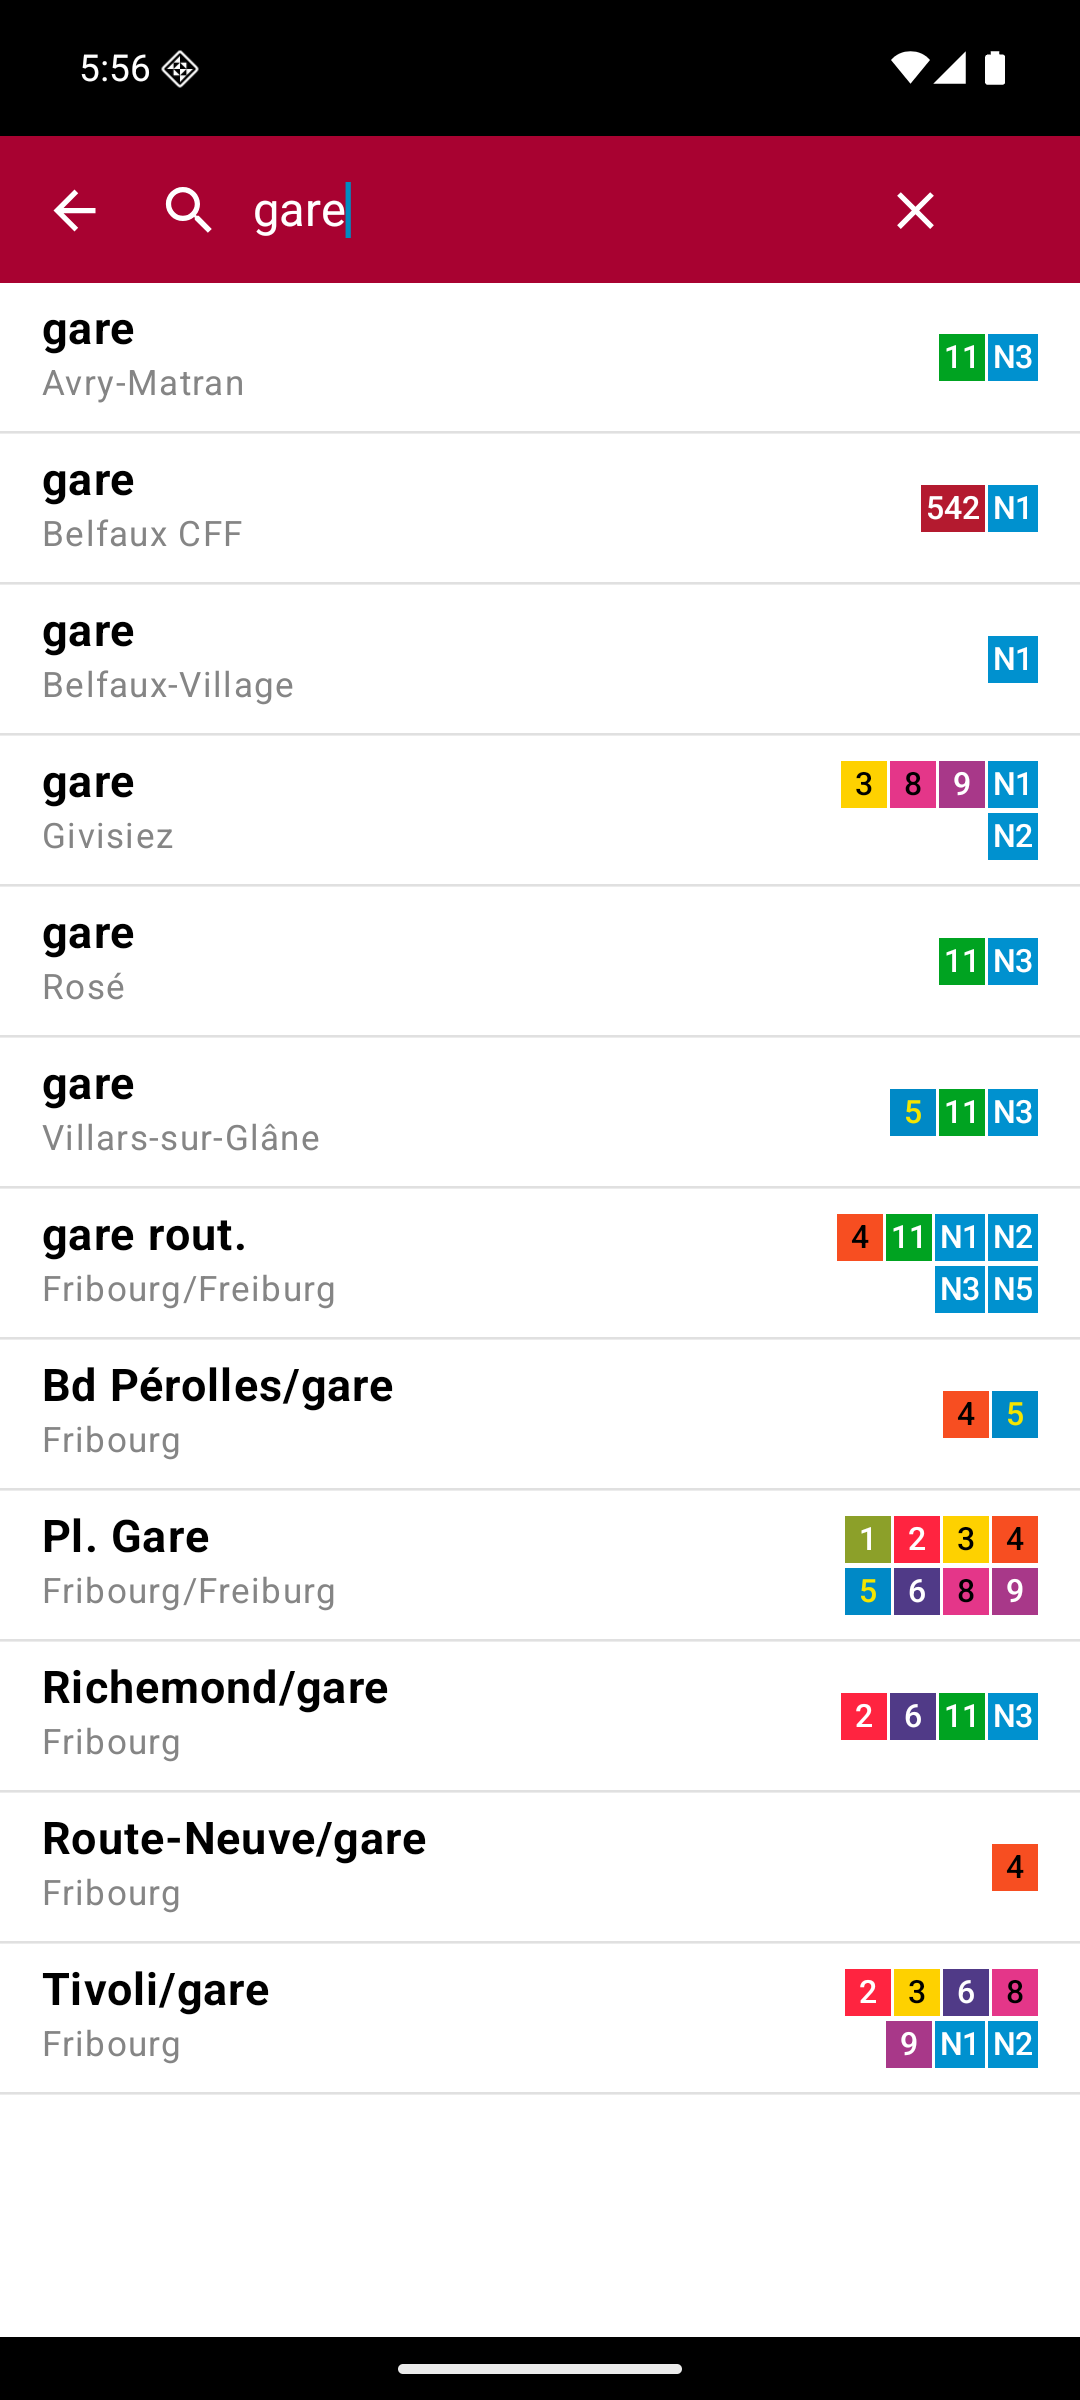
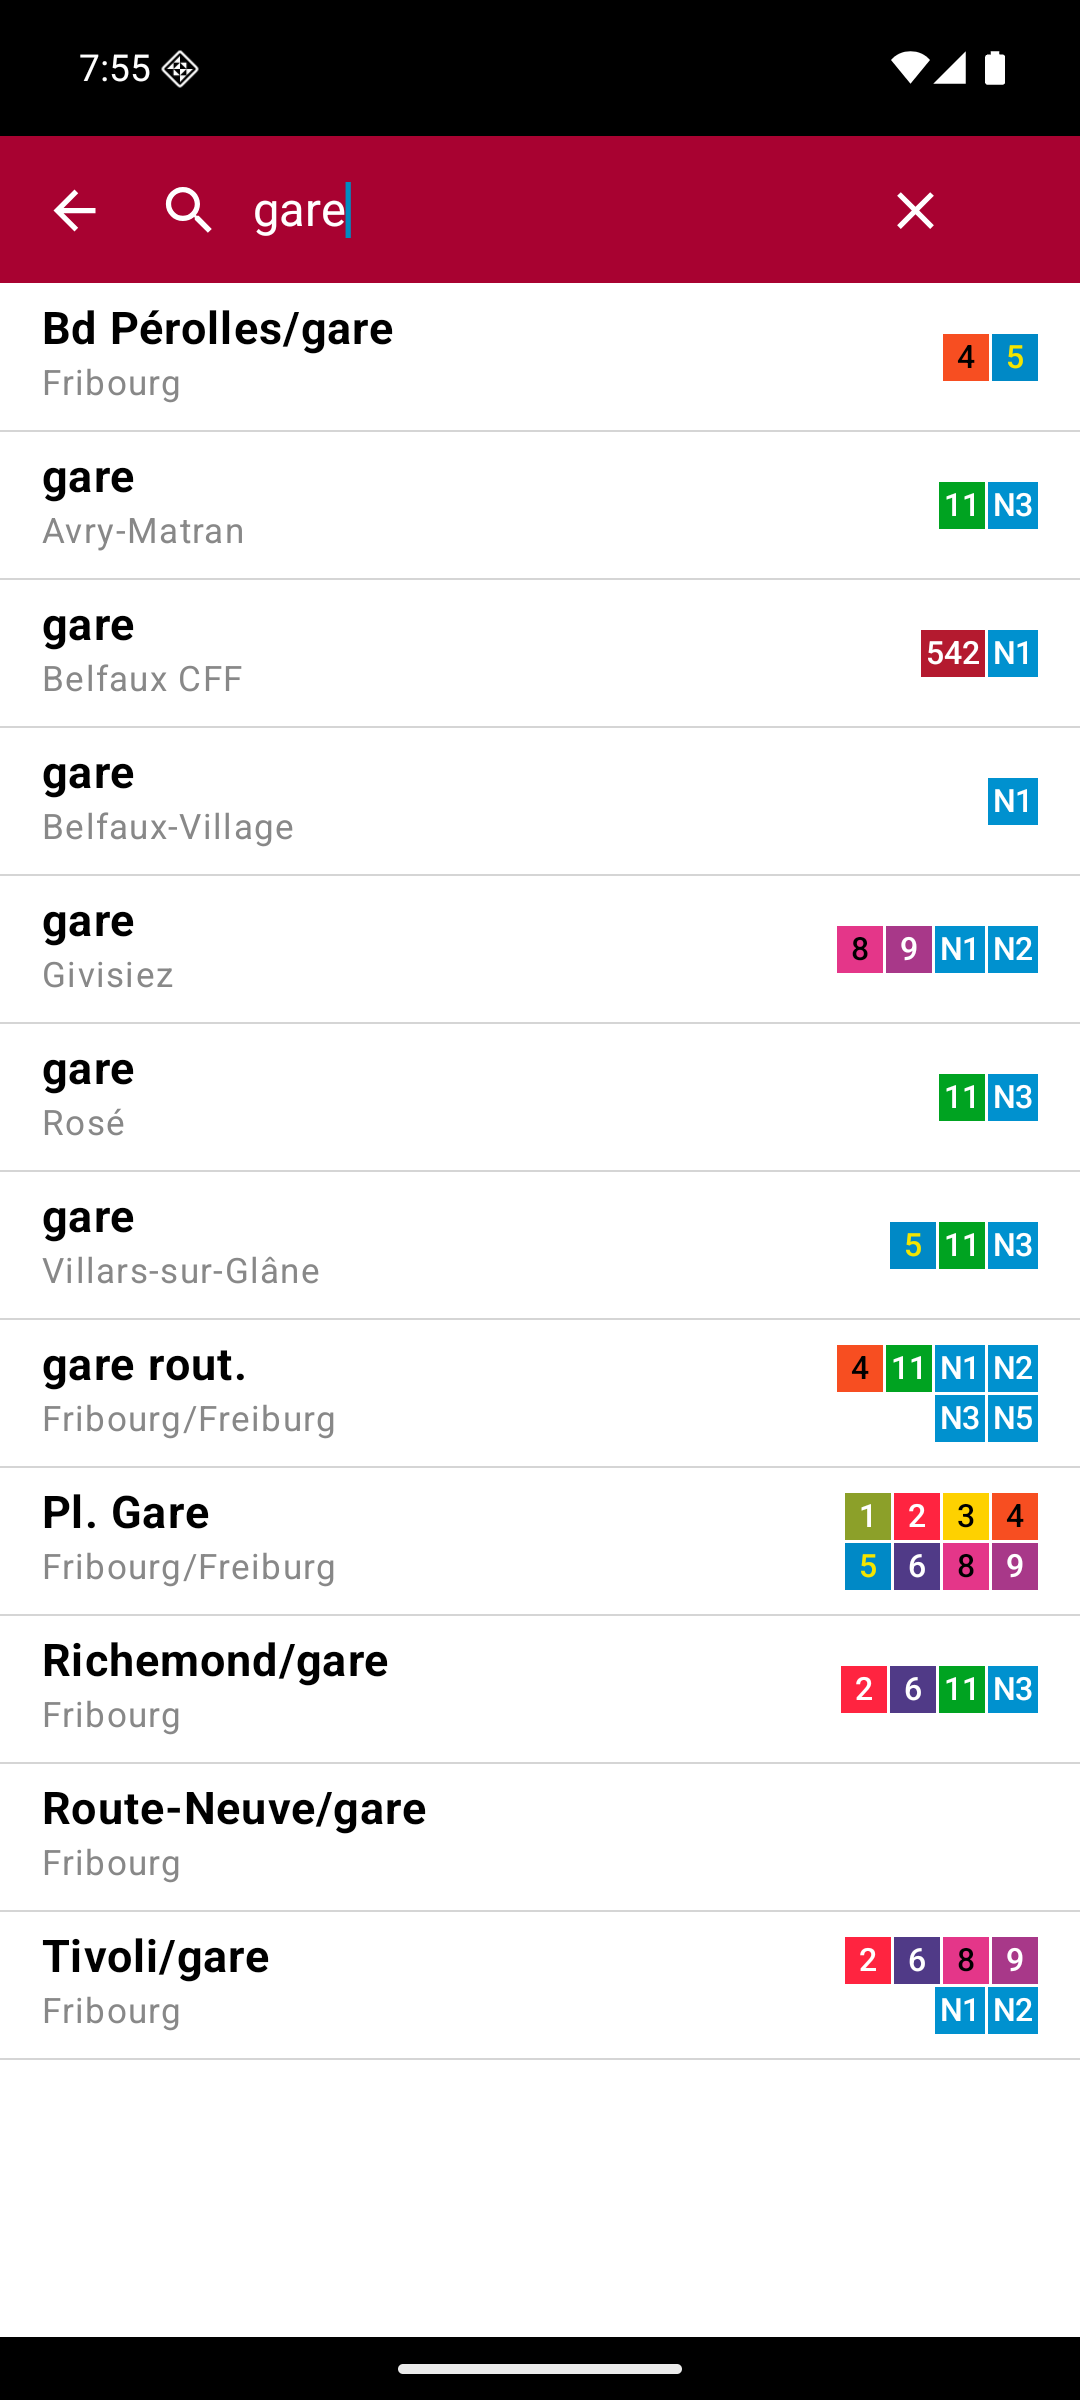
Recette : comparaison sur la v1.0.1

Changed region(s): [[0.0306, 0.125, 0.3972, 0.875], [0.7639, 0.125, 0.9778, 0.875]]

diff --git a/docs/recette/2026-11-16-comparaison.md b/docs/recette/2026-11-16-comparaison.md
@@ -1,7 +1,7 @@
-# Recette : comparaison avec l'ancienne app (TPF Info 2.9.10) — 2026-11-16
+# Recette : comparaison avec l'ancienne app (TPF Info 2.9.10) — 2026-11-16 (refaite sur la v1.0.1)
 
 Méthode : AVD `mission_geo_phone` (1080×2400), position simulée 46.8032 / 7.1597, arrêt Tilleul-Cathédrale (ancienne app) / Tilleul/Cathédrale (FriBus Info).
-Ancienne app capturée avec l'horloge en juin 2021 (seule date acceptée par son horaire embarqué) ; FriBus Info capturée à la date réelle, réseau actif ; les captures `*-fribus.png` viennent du build postérieur au commit 02292fb (rendu aligné sur l'ancienne app), pas de l'APK v1.0.0 d'origine.
+Ancienne app capturée avec l'horloge en juin 2021 (seule date acceptée par son horaire embarqué) ; FriBus Info capturée à la date réelle, réseau actif ; les captures `*-fribus.png` ont été recapturées le 2026-11-16 sur l'APK **release v1.0.1** (`FriBusInfo-v1.0.1.apk`, versionCode 2, téléchargé depuis la release GitHub, installé par-dessus la v1.0.0), position 46.8032 / 7.1597.
 Les écarts sont étiquetés « voulu » avec la référence à la spec (`docs/superpowers/specs/2026-11-16-fribus-info-design.md`) ou à une décision du contrôleur ; sinon « non voulu ».
 
 ## 1. À proximité
@@ -14,7 +14,7 @@ Les écarts sont étiquetés « voulu » avec la référence à la spec (`docs/s
 |---|---|---|---|
 | Barre de titre | Logo « tpf » + « Locate me » | Texte « À proximité » | voulu — spec §4, §6 |
 | Noms d'arrêts | « Neuveville-Motta », « Tilleul-Cathédrale » | « Neuveville/Motta », « Tilleul/Cathédrale » | voulu — spec §8 |
-| Distances, arrêts, lignes | 125 m, 150 m… ; lignes 7, 123, 124, 127, M17, N4… | 100 m, 125 m… ; lignes 1–6, 8, 9, 11, N1–N3… | voulu — spec §5, §8 |
+| Distances, arrêts, lignes | 125 m, 150 m… ; lignes 7, 123, 124, 127, M17, N4… | 125 m, 150 m… jusqu'à 550 m (rayon de 500 m, carré, distance arrondie au 25 m supérieur, comme l'ancienne app) ; lignes 1–6, 8, 9, 11, N1–N3… ; « Fribourg-St-Pierre » (funiculaire fermé jusqu'au 4 décembre) sans pastille | voulu — spec §5, §8 ; rayon aligné depuis la 1.0.1 |
 | Pastilles de lignes, forme | Carrés 46×47 px réels (17,5 dp), pas 48 px, interligne 52 px | Carrés 46×47 px, mêmes pas et interligne ; plus larges seulement pour « 542 », « FUN », « N1 » | corrigé (commit 02292fb) |
 | Pastilles de lignes, texte | Chiffres en graisse moyenne, hauteur 23 px | Graisse moyenne, 12 sp | corrigé (commit 02292fb) |
 | Pastilles de lignes, trop-plein | Jusqu'à 8 pastilles (2 rangées de 4) ; au-delà de 8 : 7 pastilles + « … » | Jusqu'à 8 pastilles (4 par rangée × 2) ; au-delà de 8 : 7 pastilles + « … » (`badgeSlots`) | voulu — décision du contrôleur : visuellement identique à l'ancienne app avec nos libellés étroits |
@@ -35,7 +35,10 @@ Les écarts sont étiquetés « voulu » avec la référence à la spec (`docs/s
 | Icône billet (CHF) | Présente | Absente | voulu — spec §6.2 |
 | Bandeau rouge « Offline data… » | Présent | Absent | voulu — spec §6.2 |
 | Départs, destinations, minutes | Horaire 2021 | Horaire réel actuel | voulu — spec §8 |
-| Retard | Pas de libellé | Étiquette jaune « +N' » à gauche de la pastille | voulu — spec §7 |
+| Retard | Minutes en jaune dans la pastille ; en mode heure, pastille « +N' » | Identique (minutes jaunes « 2' », « 9' », « 16' » sur la capture ; « +N' » en mode heure) | aligné depuis la 1.0.1 |
+| Bus tout juste parti | Pastille éclaircie | Pastille éclaircie (« 0' » grisé, première ligne) | aligné depuis la 1.0.1 |
+| « 0' » | Clignote | Clignote | aligné depuis la 1.0.1 |
+| Départ de plus d'une heure | « 1h05' » | « 1h05' » | aligné depuis la 1.0.1 |
 | Ordre des lignes | Horaire théorique | Heure réelle | voulu — spec §7 |
 | Icônes de la barre | Loupe, localisation, billet, ⋮ | Loupe, localisation, ⋮ | voulu (billet absent) |
 | Marge gauche de la barre | Flèche x≈61, titre x≈132 | Flèche x≈62, titre x≈132 | corrigé (commit 02292fb) |
@@ -51,7 +54,7 @@ Les écarts sont étiquetés « voulu » avec la référence à la spec (`docs/s
 
 | Élément | Ancienne app | FriBus Info | Statut |
 |---|---|---|---|
-| Libellés | « Add to favorites », « Switch to absolute time » | « Ajouter aux favoris », « Afficher l'heure » | voulu — spec §6 |
+| Libellés | « Add to favorites », « Switch to absolute time » | « Ajouter aux favoris », « Heure de départ absolue » (reprend les libellés français de l'ancienne app ; passe sur deux lignes comme dans une largeur de 247 dp) | voulu — spec §6 |
 | Position du menu | Recouvre la barre de titre (ancré en haut à droite) | Recouvre la barre, bord droit à l'écran, haut à y=146 px (comme l'ancienne) | corrigé (commit 02292fb) |
 | Largeur et gabarit du menu | 649 px réels (247 dp), sans marge verticale, icône x≈430, texte x≈500 | Identique (icône 432, texte 502) | corrigé (commit 02292fb) |
 | Icônes (étoile, horloge) | Étoile creuse, horloge | Identiques | identique |
@@ -80,7 +83,8 @@ Les écarts sont étiquetés « voulu » avec la référence à la spec (`docs/s
 
 | Élément | Ancienne app | FriBus Info | Statut |
 |---|---|---|---|
-| Champ vide | Titre tronqué « Se… » | Placeholder « Rechercher un arrêt » dans le champ + icône loupe | voulu — décision du contrôleur |
+| Champ vide | Titre tronqué « Se… » | Placeholder « Rechercher station » (indice de l'ancienne app) + icône loupe | voulu — décision du contrôleur, spec §6 |
+| Recherche à plusieurs mots | Tous les mots doivent figurer | Idem (« gare » ; multi-mots depuis la 1.0.1) | aligné depuis la 1.0.1 |
 | Résultats | Arrêts TPF de toute la Suisse romande (Albeuve, Avenches…) | Arrêts du réseau actuel (Avry-Matran, Belfaux CFF, Givisiez…) | voulu — spec §8 |
 | Lignes affichées | Anciennes lignes (201, 290, N14…) | Lignes conservées uniquement | voulu — spec §5 |
 | Marge gauche de la liste | Textes à x≈36 | x≈36 | corrigé (commit 02292fb) |
@@ -106,7 +110,7 @@ Les écarts sont étiquetés « voulu » avec la référence à la spec (`docs/s
 
 ## Point ouvert
 
-L'ancienne app garde un départ tout juste passé avec un bouton plus clair ; FriBus Info le retire à sa minute (sauf retard connu) — à décider par Matthieu.
+Aucun : le départ tout juste passé est désormais affiché en pastille éclaircie comme dans l'ancienne app (v1.0.1).
 
 ## Conclusion
 
@@ -118,4 +122,4 @@ Ce qui reste, sans être corrigeable par réglage :
 2. Hauteur de glyphes de la commune (13,5 sp) : l'ancienne police est un peu plus haute à largeur égale (≈ 3 px) ; invisible à l'usage.
 3. Barre du tiroir ouvert : le titre de l'écran remplace le logo « tpf » (voulu, spec §4).
 
-Mesures prises sur les captures 1080×2400 (densité 2,625 px/dp). Le point ouvert ci-dessus est une décision laissée à Matthieu, pas un écart non souhaité : aucun écart non souhaité.
+Recapture sur la v1.0.1 : aucune nouvelle différence non voulue observée sur les 6 écrans (le clavier est masqué sur la capture de recherche ; l'ancienne app est capturée sans clavier). Mesures prises sur les captures 1080×2400 (densité 2,625 px/dp). Aucun écart non souhaité.
